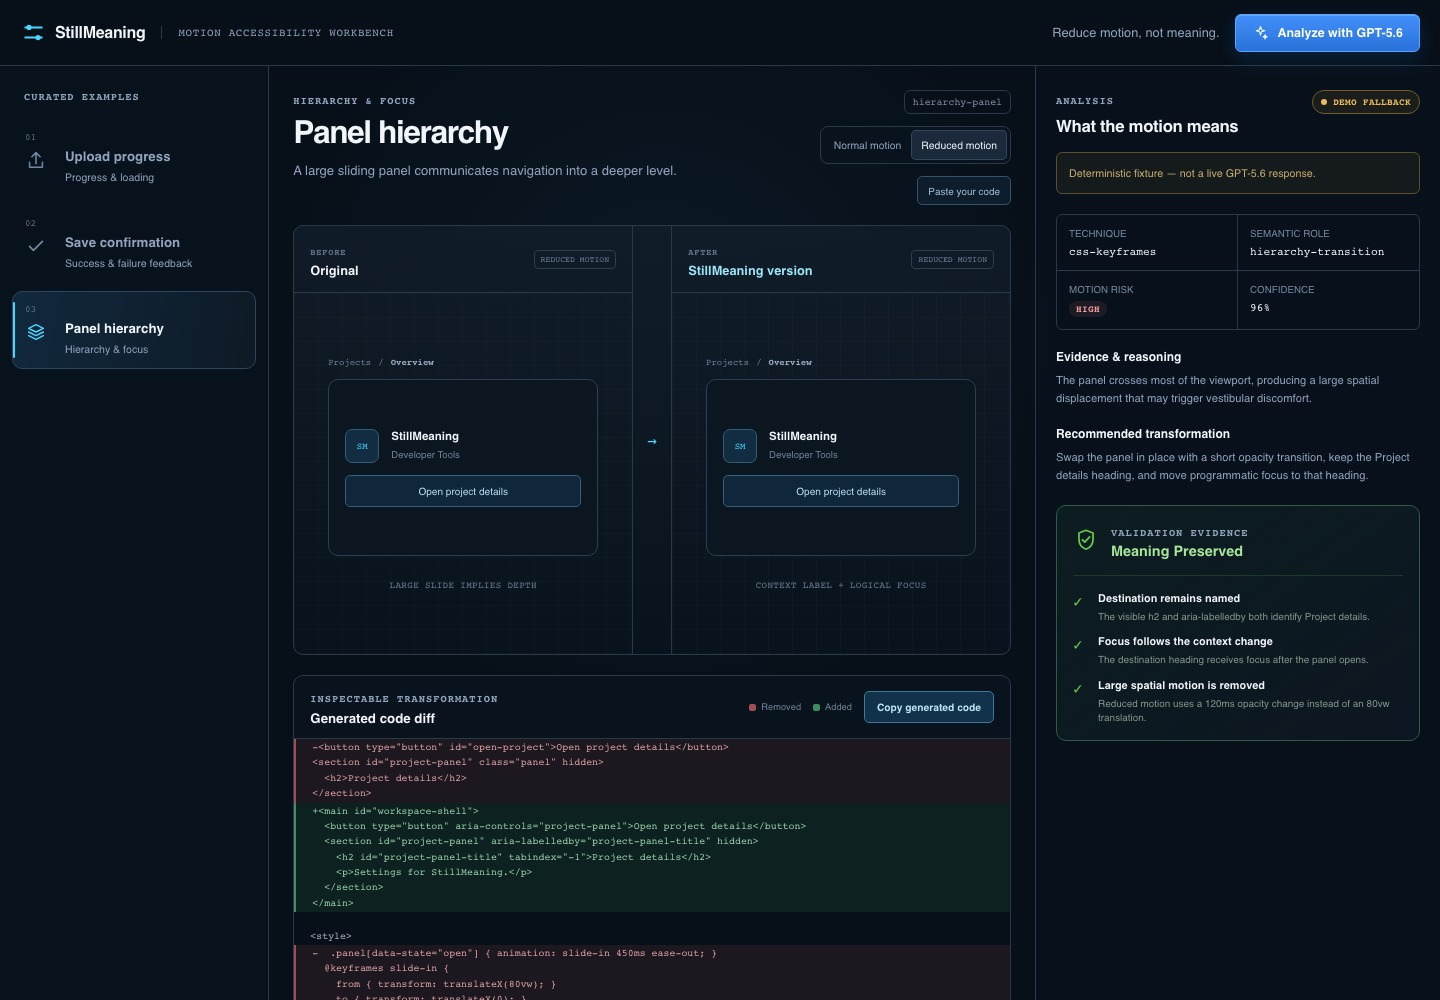
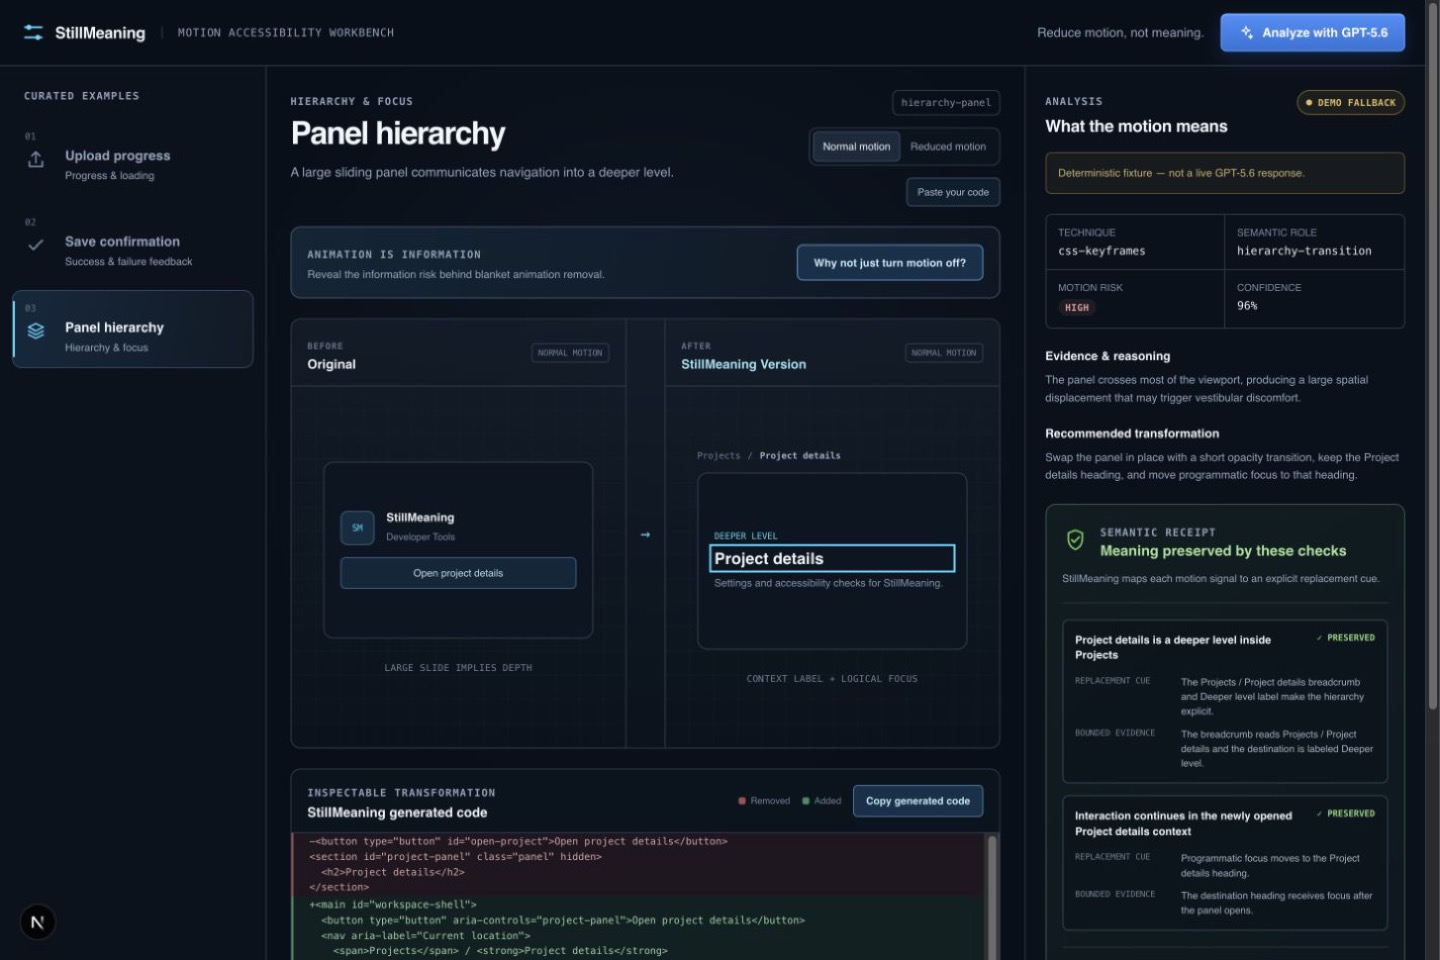
docs: refresh Build Week submission assets

diff --git a/docs/submission/demo-video-script.md b/docs/submission/demo-video-script.md
@@ -1,71 +1,70 @@
-# Demo video script — target 2:40
+# Demo video script — rendered 2:22
 
-The public video must be no longer than three minutes. Record at 1440×1000 or another 16:9-friendly desktop size, keep browser zoom at 100%, and close unrelated tabs and notifications.
+The final local render is 142.016 seconds, below Devpost's three-minute limit. It is 1920×1080 at 30 fps with English narration and real StillMeaning product captures.
 
-## 0:00–0:20 — Problem and promise
+## 0:00–0:22 — Problem and promise
 
-**Screen:** StillMeaning header and three examples.
-
-**Voiceover:**
-
-> Animation is information. It shows progress, confirms an outcome, or explains where focus moved. But reduced-motion implementations often delete the animation—and the information with it. StillMeaning asks one question: what disappears when motion disappears? Then it reduces the motion, not the meaning.
-
-## 0:20–0:55 — Upload progress and the counterfactual
-
-**Screen:** Select Upload progress. Show Original, click **Why not just turn motion off?**, pause on Motion Removed Only and Meaning at Risk, then click **Restore meaning with StillMeaning**.
+**Screen:** StillMeaning workbench with the Upload progress counterfactual visible. Title: **Animation is information.**
 
 **Voiceover:**
 
-> This continuous shimmer says the upload is still active. If we merely turn it off, the bar becomes static: is it progressing or stalled, and what is the exact value? StillMeaning traces that ambiguity, then replaces the moving cue with visible status text, a numeric value, and real progressbar semantics.
+> Animation is information. It shows progress, confirms an outcome, or explains where focus moved. But reduced-motion implementations often delete the animation, and the information with it. StillMeaning asks one question: what disappears when motion disappears? Then it reduces the motion, not the meaning.
 
-## 0:55–1:20 — Success feedback
+## 0:22–0:55 — Upload progress and the counterfactual
 
-**Screen:** Select Save confirmation, reveal Motion Removed Only, then restore StillMeaning.
+**Screen:** Motion Removed Only and Meaning at Risk, followed by the restored StillMeaning Version and semantic receipt.
 
 **Voiceover:**
 
-> Here, scale, rotation, and path drawing are the success message. Turning them off leaves only an unlabeled icon. StillMeaning makes the result persistent and explicit with Changes saved text, synchronization detail, and a polite status announcement—without relying on motion or color alone.
+> This continuous shimmer says the upload is still active. If we merely turn it off, the bar becomes static. Is it progressing or stalled, and what is the exact value? StillMeaning traces that ambiguity, then replaces the moving cue with visible status text, a numeric value, and real progress-bar semantics.
 
-## 1:20–1:47 — Hierarchy and focus
+## 0:55–1:18 — Success feedback
 
-**Screen:** Select Panel hierarchy, activate the Original panel, reveal the immediate-swap counterfactual, then restore StillMeaning and activate its panel.
+**Screen:** Save confirmation with the unlabeled-icon counterfactual and lost/ambiguous outcome evidence.
+
+**Voiceover:**
+
+> Here, scale, rotation, and path drawing are the success message. Turning them off leaves only an unlabeled icon. StillMeaning makes the result persistent and explicit with Changes saved text, synchronization detail, and a polite status announcement, without relying on motion or color alone.
+
+## 1:18–1:40 — Hierarchy and focus
+
+**Screen:** Panel hierarchy with an explicit destination, logical keyboard focus, short fade, and preserved-meaning evidence.
 
 **Voiceover:**
 
 > This large slide communicates movement into a deeper level. Removing it without a replacement creates an unexplained content swap and leaves keyboard focus behind. StillMeaning adds explicit hierarchy, names the destination, and moves focus logically while replacing the travel with only a short fade.
 
-## 1:47–2:10 — Code transformation
+## 1:40–1:59 — Code transformation
 
-**Screen:** Scroll to the code section. Toggle the diff, highlight removed and added lines, then use Copy generated code.
+**Screen:** Inspectable before-and-after diff, generated implementation, and safe execution boundary.
 
 **Voiceover:**
 
 > StillMeaning does not stop at advice. It generates an inspectable implementation, shows the exact before-and-after diff, explains the transformation, and lets a developer copy the result. Generated code is displayed as untrusted text and is never executed inside the workbench.
 
-## 2:10–2:32 — GPT-5.6 and safety
+## 1:59–2:14 — GPT-5.6 and guardrails
 
-**Screen:** Show provenance badge and, if live access is working, paste a short custom animation and run analysis. Otherwise keep the curated demo and do not imply a live call.
-
-**Voiceover:**
-
-> GPT-5.6 performs the core reasoning: it identifies each motion-carried signal, predicts what becomes lost or ambiguous, selects replacement cues, generates code, and links each cue to structured validation evidence. The server uses strict schema validation, bounded input, a timeout, and a server-only key. Provenance always distinguishes live GPT-5.6 from the clearly labeled demo fallback.
-
-## 2:32–2:40 — Codex and close
-
-**Screen:** Return to the full workbench or briefly show the GitHub history.
+**Screen:** Signal, Loss, Replacement, and Evidence cards. The source note explicitly states that the recorded path shows the labeled demo fallback.
 
 **Voiceover:**
 
-> Codex helped audit, design, implement, test, debug, and document the project in one primary development session. StillMeaning: reduce motion, not meaning.
+> GPT-5.6 performs the core reasoning. It identifies each motion-carried signal, predicts what becomes lost or ambiguous, selects replacement cues, generates code, and links each cue to structured validation evidence. The server uses strict schema validation, bounded input, a timeout, and a server-only key. Provenance always distinguishes live GPT-5.6 from the clearly labeled demo fallback shown here.
+
+## 2:14–2:22 — Codex and close
+
+**Screen:** **Built with GPT-5.6 + Codex**, repository URL, and the final principle.
+
+**Voiceover:**
+
+> Codex helped audit, design, implement, test, debug, deploy, and document the project in one primary development session. StillMeaning: reduce motion, not meaning.
 
 ## Recording truthfulness checks
 
-- Do not say a response is live unless the UI visibly shows `Live · GPT-5.6` during that take.
-- Do not claim WCAG certification; say “review evidence” or “meaning-preservation checks.”
+- The rendered workbench visibly shows `Demo fallback`; it does not imply a successful live model call.
+- Do not claim WCAG certification; describe bounded meaning-preservation evidence and tested contrast.
 - Do not claim user metrics, performance gains, or production adoption.
-- Keep the fallback badge visible when using curated fixture data.
-- Show the public demo URL and repository URL in the video description.
-- Mention Codex and GPT-5.6 verbally, not only in captions.
+- The narration mentions Codex and GPT-5.6 verbally, not only in captions.
+- Add the public demo URL and repository URL to the YouTube description.
 
 ## Suggested video description
 

diff --git a/docs/submission/rendered-video-draft.md b/docs/submission/rendered-video-draft.md
@@ -1,6 +1,6 @@
-# Rendered demo video draft — 2026-07-18
+# Rendered demo video — 2026-07-19
 
-The local submission-video draft is ready for review and YouTube upload. It was rendered from real StillMeaning screenshots with a system English voice and does not fabricate a live GPT-5.6 response.
+The final local submission video is ready for a public YouTube upload. It uses real StillMeaning screenshots, an English system voice, and the current Meaning Loss Reveal experience. It does not fabricate a live GPT-5.6 response; the recorded workbench visibly retains `Demo fallback` provenance.
 
 ## Artifact
 
@@ -8,30 +8,28 @@ The local submission-video draft is ready for review and YouTube upload. It was 
 - Duration: 142.016 seconds (2:22)
 - Video: H.264, 1920×1080, 30 fps
 - Audio: AAC, 48 kHz, stereo
-- Size: 16,230,263 bytes (15.5 MB)
[1 lines of base64/hex data omitted]
-- Audio level: -19.0 dB mean, -4.5 dB peak
-- Automated media checks found no black interval longer than one second and no silence interval longer than two seconds.
-- HyperFrames check: zero lint, runtime, layout, and motion issues; 23/23 text checks passed WCAG AA.
+- Size: 15,442,869 bytes (14.7 MiB)
[1 lines of base64/hex data omitted]
+- Audio level: -19.0 dB mean, -4.7 dB peak
+- FFmpeg `blackdetect` found no black interval longer than one second.
+- FFmpeg `silencedetect` found no silence interval longer than two seconds at -45 dB.
+- HyperFrames check: zero lint, runtime, layout, and motion issues; 20/20 text checks passed WCAG AA contrast.
+- Final frames at 5, 40, 85, 125, and 137 seconds were manually inspected for composition, legibility, accurate fallback provenance, and scene continuity.
 
 The MP4 remains in Git-ignored `.tmp` to avoid adding a binary video to repository history. Upload it as a public YouTube video, then add the YouTube URL to Devpost and this repository's submission documents.
 
-## Narration used in the rendered draft
+## Narration used in the final render
 
-Web animation often carries meaning. It shows progress, confirms an outcome, and explains where focus moved. But reduced-motion implementations often delete the animation and the information with it.
+Animation is information. It shows progress, confirms an outcome, or explains where focus moved. But reduced-motion implementations often delete the animation, and the information with it. StillMeaning asks one question: what disappears when motion disappears? Then it reduces the motion, not the meaning.
 
-StillMeaning is a developer tool built around one principle: reduce motion, not meaning.
+This continuous shimmer says the upload is still active. If we merely turn it off, the bar becomes static. Is it progressing or stalled, and what is the exact value? StillMeaning traces that ambiguity, then replaces the moving cue with visible status text, a numeric value, and real progress-bar semantics.
 
-In this upload example, StillMeaning identifies a continuous shimmer. The semantic role is progress, while the repeated lateral movement creates motion risk. The alternative removes the shimmer but keeps a numeric value, visible status text, and a real progress-bar state. The evidence panel shows exactly which meaning remains available.
+Here, scale, rotation, and path drawing are the success message. Turning them off leaves only an unlabeled icon. StillMeaning makes the result persistent and explicit with Changes saved text, synchronization detail, and a polite status announcement, without relying on motion or color alone.
 
-The save example combines scale, rotation, and path drawing to communicate success. Simply disabling those effects could make the outcome easier to miss. StillMeaning replaces the compound motion with persistent outcome text, a checkmark, and a polite status announcement, so feedback does not depend on movement or color alone.
+This large slide communicates movement into a deeper level. Removing it without a replacement creates an unexplained content swap and leaves keyboard focus behind. StillMeaning adds explicit hierarchy, names the destination, and moves focus logically while replacing the travel with only a short fade.
 
-The panel example originally travels across most of the viewport to communicate hierarchy. In reduced-motion mode, the safer version uses a short opacity change, keeps the destination named, and moves keyboard focus logically. The hierarchy remains understandable without the large spatial transition.
+StillMeaning does not stop at advice. It generates an inspectable implementation, shows the exact before-and-after diff, explains the transformation, and lets a developer copy the result. Generated code is displayed as untrusted text and is never executed inside the workbench.
 
-StillMeaning does not stop at advice. It shows an inspectable before-and-after code diff, generates a replacement implementation, and lets developers copy the result. Generated code stays untrusted text and is never executed inside the workbench.
+GPT-5.6 performs the core reasoning. It identifies each motion-carried signal, predicts what becomes lost or ambiguous, selects replacement cues, generates code, and links each cue to structured validation evidence. The server uses strict schema validation, bounded input, a timeout, and a server-only key. Provenance always distinguishes live GPT-5.6 from the clearly labeled demo fallback shown here.
 
-GPT-5.6 performs the core reasoning: semantic classification, motion-risk analysis, strategy selection, code generation, and structured validation evidence. The server uses strict schema validation, bounded input and output, a thirty-second timeout, store false, and a server-only API key. Provenance always states whether a result came from live GPT-5.6 or the clearly labeled demo fallback shown here.
-
-Codex helped audit the repository, research adjacent tools, shape the architecture, implement the product test-first, debug deployment, review accessibility and security, and prepare the submission. The verified suite includes strict type checking, thirty-six unit and component tests, and eight desktop and mobile browser tests.
-
-StillMeaning. Reduce motion, not meaning.
+Codex helped audit, design, implement, test, debug, deploy, and document the project in one primary development session. StillMeaning: reduce motion, not meaning.

diff --git a/docs/submission/readiness-audit.md b/docs/submission/readiness-audit.md
@@ -1,4 +1,4 @@
-# Submission readiness audit — 2026-07-17
+# Submission readiness audit — updated 2026-07-19
 
 This records the live Devpost project and official OpenAI Build Week submission fields. It does not authorize or record a Devpost competition submission.
 
@@ -12,9 +12,10 @@ This records the live Devpost project and official OpenAI Build Week submission 
 - Repository: https://github.com/alexliluz/stillmeaning
 - Public hosted demo: https://stillmeaning.alexliluz.workers.dev
 - Hosted release: Meaning Loss Reveal was deployed to the existing `stillmeaning` Worker on 2026-07-19 as version `24ef0b28-6e5f-467d-a32f-966f4977abb5`; no custom domain or separate Cloudflare account was created
-- Devpost Project Story, Built with tags, repository URL, and demo URL: live version 6 was updated on 2026-07-18; the repository now contains a stronger Meaning Loss Reveal draft with the verified 45-test total that still needs to be copied to Devpost
-- 3:2 thumbnail: uploaded on 2026-07-18; existing local image assets predate Meaning Loss Reveal and should be refreshed before the two gallery screenshots are uploaded
-- Demo video: the verified 2:22 local MP4 predates Meaning Loss Reveal; the updated 2:40 script is ready, but a replacement render, public YouTube upload, and URL are not yet available
+- Devpost Project Story, Built with tags, repository URL, and demo URL: live version 7 was updated on 2026-07-19 with Meaning Loss Reveal and the verified 45-test total
+- 3:2 thumbnail: a refreshed Meaning Loss Reveal thumbnail upload completed through Devpost's prepared upload endpoint on 2026-07-19; Devpost processing and public visual readback still require manual confirmation
+- Gallery: two refreshed 1440×960 product screenshots are ready locally; Devpost's available project API does not expose gallery-photo upload, so they still require manual upload
+- Demo video: a final 2:22 English MP4 using the current Meaning Loss Reveal experience is rendered and verified locally; public YouTube upload and URL remain
 - `/feedback` Session ID: not yet generated
 
 The official deadline returned by Devpost is `2026-07-22T00:00:00Z`, which is July 21 at 5:00 PM Pacific Time and July 22 at 8:00 AM China Standard Time.
@@ -49,7 +50,7 @@ To run locally: install Node.js 24+ and pnpm 11.9+, clone `https://github.com/al
 | Criterion | Current evidence | Remaining improvement |
 | --- | --- | --- |
 | Technological Implementation | Structured GPT-5.6 boundary, cross-validated semantic trace, classified safe fallback, 45 unit/component tests, 8 browser tests, meaningful Git history | Add Platform API quota, rerun the deployed smoke workflow successfully, and capture a live result |
-| Design | Coherent workbench, before/after focus, responsive and keyboard-accessible interaction; 3:2 thumbnail and two additional product screenshots prepared | Upload the prepared assets and verify their Devpost rendering |
+| Design | Coherent workbench, before/after focus, responsive and keyboard-accessible interaction; refreshed 3:2 thumbnail and two product screenshots prepared from the current experience | Confirm thumbnail processing, upload the gallery images, and verify Devpost rendering |
 | Potential Impact | Specific developer and accessibility audience, standards-backed problem, three concrete semantic roles | Keep the two-minute narrative focused on lost meaning rather than generic accessibility |
 | Quality of the Idea | Motion-semantic-first workflow differs from broad scanners and preference emulators in reviewed official materials | Avoid absolute “no competitors” claims; describe the gap as an evidence-based inference |
 
@@ -61,8 +62,8 @@ The entrant confirmed the United States as their country of residence. The Unite
 
 1. Confirm entrant type, legal age of majority, and all remaining eligibility conditions.
 2. Add OpenAI Platform API quota for the configured key, then rerun `Deployed GPT smoke` and verify at least one successful live GPT-5.6 analysis. The current independent run reached the API but correctly failed on `insufficient_quota`: https://github.com/alexliluz/stillmeaning/actions/runs/29607701319.
-3. Refresh the 3:2 thumbnail and two gallery screenshots so they show Meaning Loss Reveal, then upload and verify them manually on Devpost.
-4. Render and review the updated 2:40 script, upload the replacement as a public YouTube video, and add the URL to Devpost.
+3. Confirm the refreshed 3:2 thumbnail rendered correctly on Devpost, then upload and verify the two prepared gallery screenshots manually.
+4. Upload the verified 2:22 MP4 as a public YouTube video and add its URL to Devpost.
 5. Run `/feedback` in this primary Codex session and save the real Session ID.
 6. Manually review all fields, then perform the final Devpost submission before the deadline.
 

diff --git a/docs/testing/2026-07-17-verification.md b/docs/testing/2026-07-17-verification.md
@@ -78,3 +78,14 @@ This record does **not** claim a successful live GPT-5.6 response. The remaining
 - A pnpm workspace override pins the Next.js PostCSS transitive dependency to patched version 8.5.19.
 - Repository scans found only the placeholder `OPENAI_API_KEY=` in `.env.example`.
 - No generated Session ID, user metric, performance metric, or live-model result has been fabricated.
+
+## Submission asset verification — 2026-07-19
+
+- Captured a new 1440×960 3:2 thumbnail and two 1440×960 gallery images from the real local Meaning Loss Reveal workbench.
+- All three images retain visible `Demo fallback` provenance and were manually inspected after export.
+- Rendered the final English demo video from real product screenshots at 1920×1080, 30 fps, with a 142.016-second runtime.
+- HyperFrames reported zero lint, runtime, layout, and motion issues; all 20 detected text checks passed WCAG AA contrast.
+- FFmpeg found no black interval longer than one second and no silence interval longer than two seconds at -45 dB.
+- Final audio measured -19.0 dB mean and -4.7 dB peak; five representative frames were manually reviewed.
[1 lines of base64/hex data omitted]
+- The video remains in Git-ignored `.tmp`; no public YouTube URL is claimed yet.

diff --git a/docs/submission/assets/README.md b/docs/submission/assets/README.md
@@ -2,8 +2,8 @@
 
 These files are derived from the real StillMeaning workbench and retain the visible `Demo fallback` provenance. They do not depict a fabricated live GPT-5.6 response.
 
-- `stillmeaning-thumbnail-3x2.jpg` — 1440×960 (3:2) Devpost thumbnail candidate, cropped from the verified workbench screenshot.
-- `stillmeaning-save-confirmation.jpg` — 1440×1000 product screenshot showing success feedback in normal-motion mode.
-- `stillmeaning-panel-hierarchy.jpg` — 1440×1000 product screenshot showing hierarchy and focus in reduced-motion mode.
+- `stillmeaning-thumbnail-3x2.jpg` — 1440×960 (3:2) Devpost thumbnail candidate showing the Upload progress **Motion Removed Only** counterfactual and **Meaning at Risk** evidence.
+- `stillmeaning-save-confirmation.jpg` — 1440×960 product screenshot showing how blanket motion removal leaves an unlabeled success icon and loses outcome semantics.
+- `stillmeaning-panel-hierarchy.jpg` — 1440×960 product screenshot showing the StillMeaning hierarchy replacement with an explicit destination, logical focus, and preserved-meaning receipt.
 
-Upload the 3:2 file as the project thumbnail and the two 1440×1000 files as gallery screenshots. Keep the upload order focused on the product story: progress, success feedback, then hierarchy/focus.
+Upload the first file as the project thumbnail and the other two as gallery screenshots. Keep the upload order focused on the product story: progress information at risk, success feedback at risk, then hierarchy/focus preserved.

diff --git a/docs/submission/devpost-project-story.md b/docs/submission/devpost-project-story.md
@@ -1,6 +1,6 @@
 # Devpost submission draft
 
-Status: ready to paste after the hosted demo and public video URLs are available.
+Status: Project Story and Built with tags are live on the Devpost draft; the public video URL, gallery upload, live-model proof, and Session ID remain.
 
 ## Project metadata
 
@@ -106,8 +106,9 @@ The next version would add AST-based animation extraction, repository and design
 - [x] Deploy a public Cloudflare Workers demo and add its URL.
 - [x] Verify that `stillmeaning.alexliluz.workers.dev` loads publicly and returns the StillMeaning page title; no custom domain is planned for this personal project.
 - [ ] Verify one successful live GPT-5.6 response from the deployed environment.
-- [ ] Review the rendered 2:22 local MP4 draft, upload it publicly to YouTube, and add the URL.
-- [ ] The 3:2 thumbnail is uploaded; manually add the two prepared product screenshots to the Devpost gallery.
+- [x] Render and verify a 2:22 English MP4 using the current Meaning Loss Reveal experience.
+- [ ] Upload the verified MP4 publicly to YouTube and add the URL.
+- [ ] Confirm Devpost finished processing the refreshed 3:2 thumbnail; manually add the two refreshed product screenshots to the gallery.
 - [x] Replace the inaccurate draft description with the repository-backed Project Story and verified Built with tags.
 - [x] Add the public GitHub repository URL and hosted demo link.
 - [x] Run the available Devpost plugin submission-requirements audit without invoking submission.